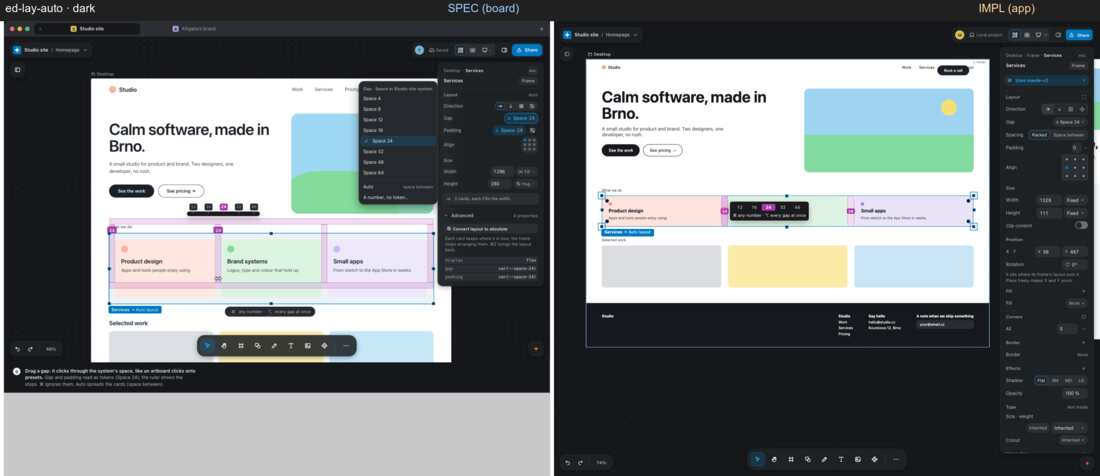
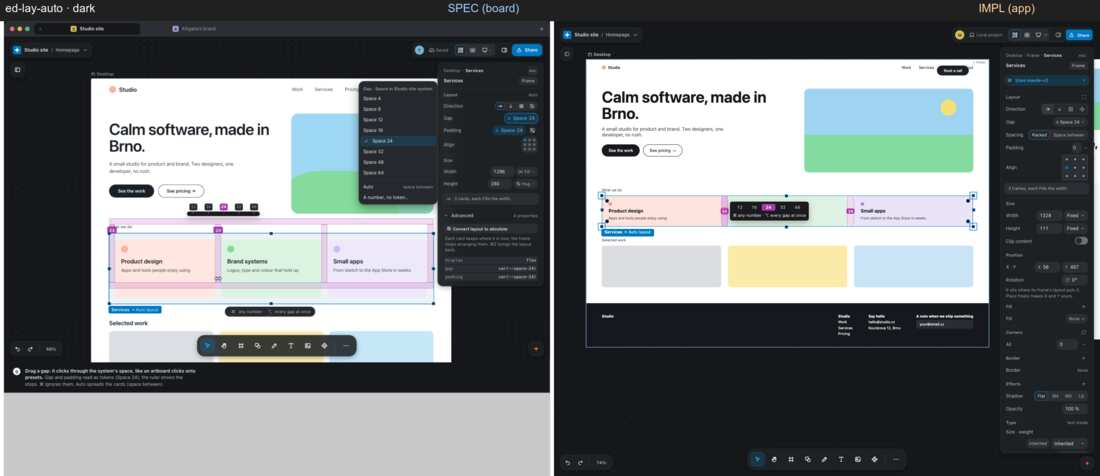
P8-c10-edit: 14 Editing re-shot (round 10), INDEX + full-size-path + side shot ed-pen-draw

Changed region(s): [[0.8655, 0.3824, 0.9891, 0.9412]]

diff --git a/.ai/plans/notes/v2-evidence/phase8-fidelity/14-editing/INDEX.md b/.ai/plans/notes/v2-evidence/phase8-fidelity/14-editing/INDEX.md
@@ -660,3 +660,42 @@ Shot on the Mac mini (`scripts/remote-lane.sh`) with its installed Google Chrome
 | `ed-text-edit` | light | re-shot | spec reused (board unchanged since the stage-A shot) |
 | `ed-text-style` | dark | re-shot | spec reused (board unchanged since the stage-A shot) |
 | `ed-text-style` | light | re-shot | spec reused (board unchanged since the stage-A shot) |
+
+## After (round 10, p8-c10-edit) — IMPL re-shot on the p8-c10-edit tip, both themes
+Re-shot (MUST rows of critic-bar4: ed-lay-auto "3 frames, each Fills the width.", ed-lay-free the free-placement line, ed-text-edit ties on the body copy, ed-pen Point card / Smooth·Sharp tags / Stroke Ends / point click keeps the path, ed-edge-paste no "Image · new section" over a placed picture) plus the rest of the c8e chain. Side shot `ed-pen-draw` (the "Click here to close" ring and chip) in `side/`. Harness: `_c10-harness-g5` on `_c8e-harness-g5` on `_d5-harness-g5`. Fixes: `fix-c10-edit.md`.
+
+| id | theme | state | spec |
+| --- | --- | --- | --- |
+| `ed-lay-auto` | dark | re-shot | spec reused (board unchanged) |
+| `ed-lay-auto` | light | re-shot | spec reused (board unchanged) |
+| `ed-lay-free` | dark | re-shot | spec reused (board unchanged) |
+| `ed-lay-free` | light | re-shot | spec reused (board unchanged) |
+| `ed-text-edit` | dark | re-shot | spec reused (board unchanged) |
+| `ed-text-edit` | light | re-shot | spec reused (board unchanged) |
+| `ed-pen` | dark | re-shot | spec reused (board unchanged) |
+| `ed-pen` | light | re-shot | spec reused (board unchanged) |
+| `ed-edge-paste` | dark | re-shot | spec reused (board unchanged) |
+| `ed-edge-paste` | light | re-shot | spec reused (board unchanged) |
+| `ed-obj-multi` | dark | re-shot | spec reused (board unchanged) |
+| `ed-obj-multi` | light | re-shot | spec reused (board unchanged) |
+| `ed-obj-order` | dark | re-shot | spec reused (board unchanged) |
+| `ed-obj-order` | light | re-shot | spec reused (board unchanged) |
+| `ed-lay-reorder` | dark | re-shot | spec reused (board unchanged) |
+| `ed-lay-reorder` | light | re-shot | spec reused (board unchanged) |
+| `ed-comp-pick` | dark | re-shot | spec reused (board unchanged) |
+| `ed-comp-pick` | light | re-shot | spec reused (board unchanged) |
+| `ed-comp-instance` | dark | re-shot | spec reused (board unchanged) |
+| `ed-comp-instance` | light | re-shot | spec reused (board unchanged) |
+| `ed-img` | dark | re-shot | spec reused (board unchanged) |
+| `ed-img` | light | re-shot | spec reused (board unchanged) |
+| `ed-shape` | dark | re-shot | spec reused (board unchanged) |
+| `ed-shape` | light | re-shot | spec reused (board unchanged) |
+| `ed-text-style` | dark | re-shot | spec reused (board unchanged) |
+| `ed-text-style` | light | re-shot | spec reused (board unchanged) |
+| `ed-edge-huge` | dark | re-shot | spec reused (board unchanged) |
+| `ed-edge-huge` | light | re-shot | spec reused (board unchanged) |
+| `ed-edge-keys` | dark | re-shot | spec reused (board unchanged) |
+| `ed-edge-keys` | light | re-shot | spec reused (board unchanged) |
+| `ed-inspector` | dark | re-shot | spec reused (board unchanged) |
+| `ed-inspector` | light | re-shot | spec reused (board unchanged) |
+
